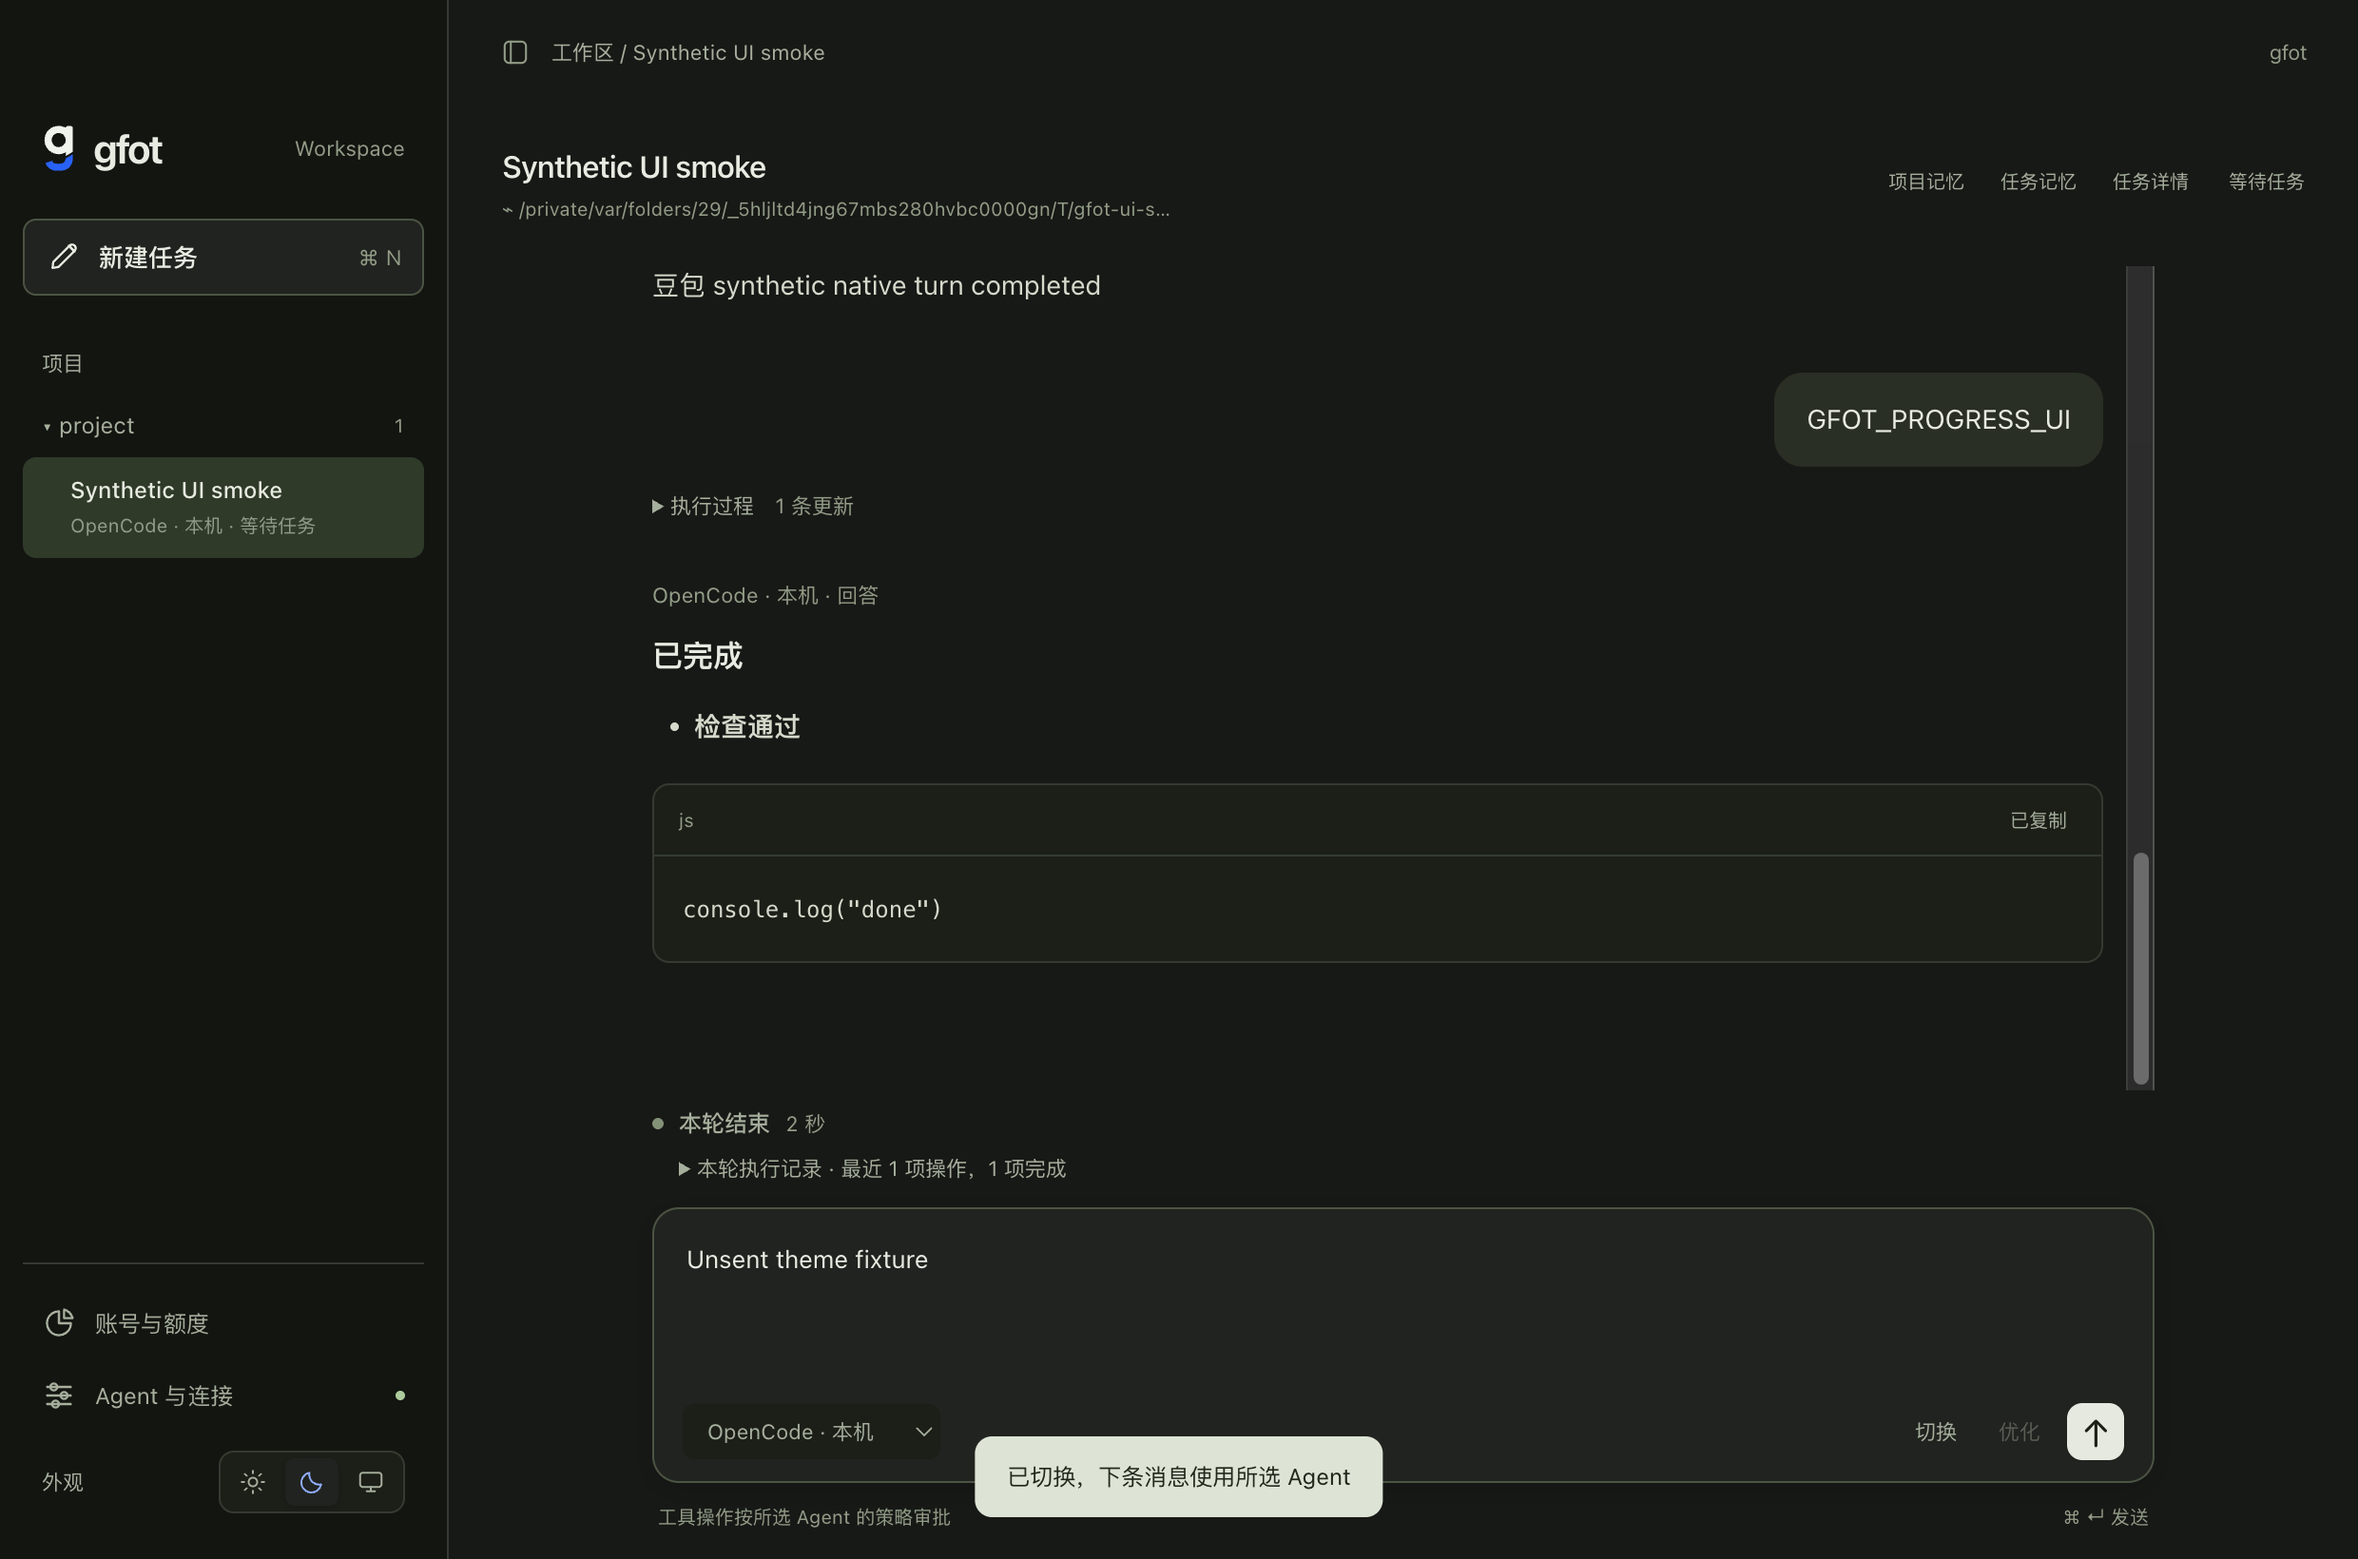
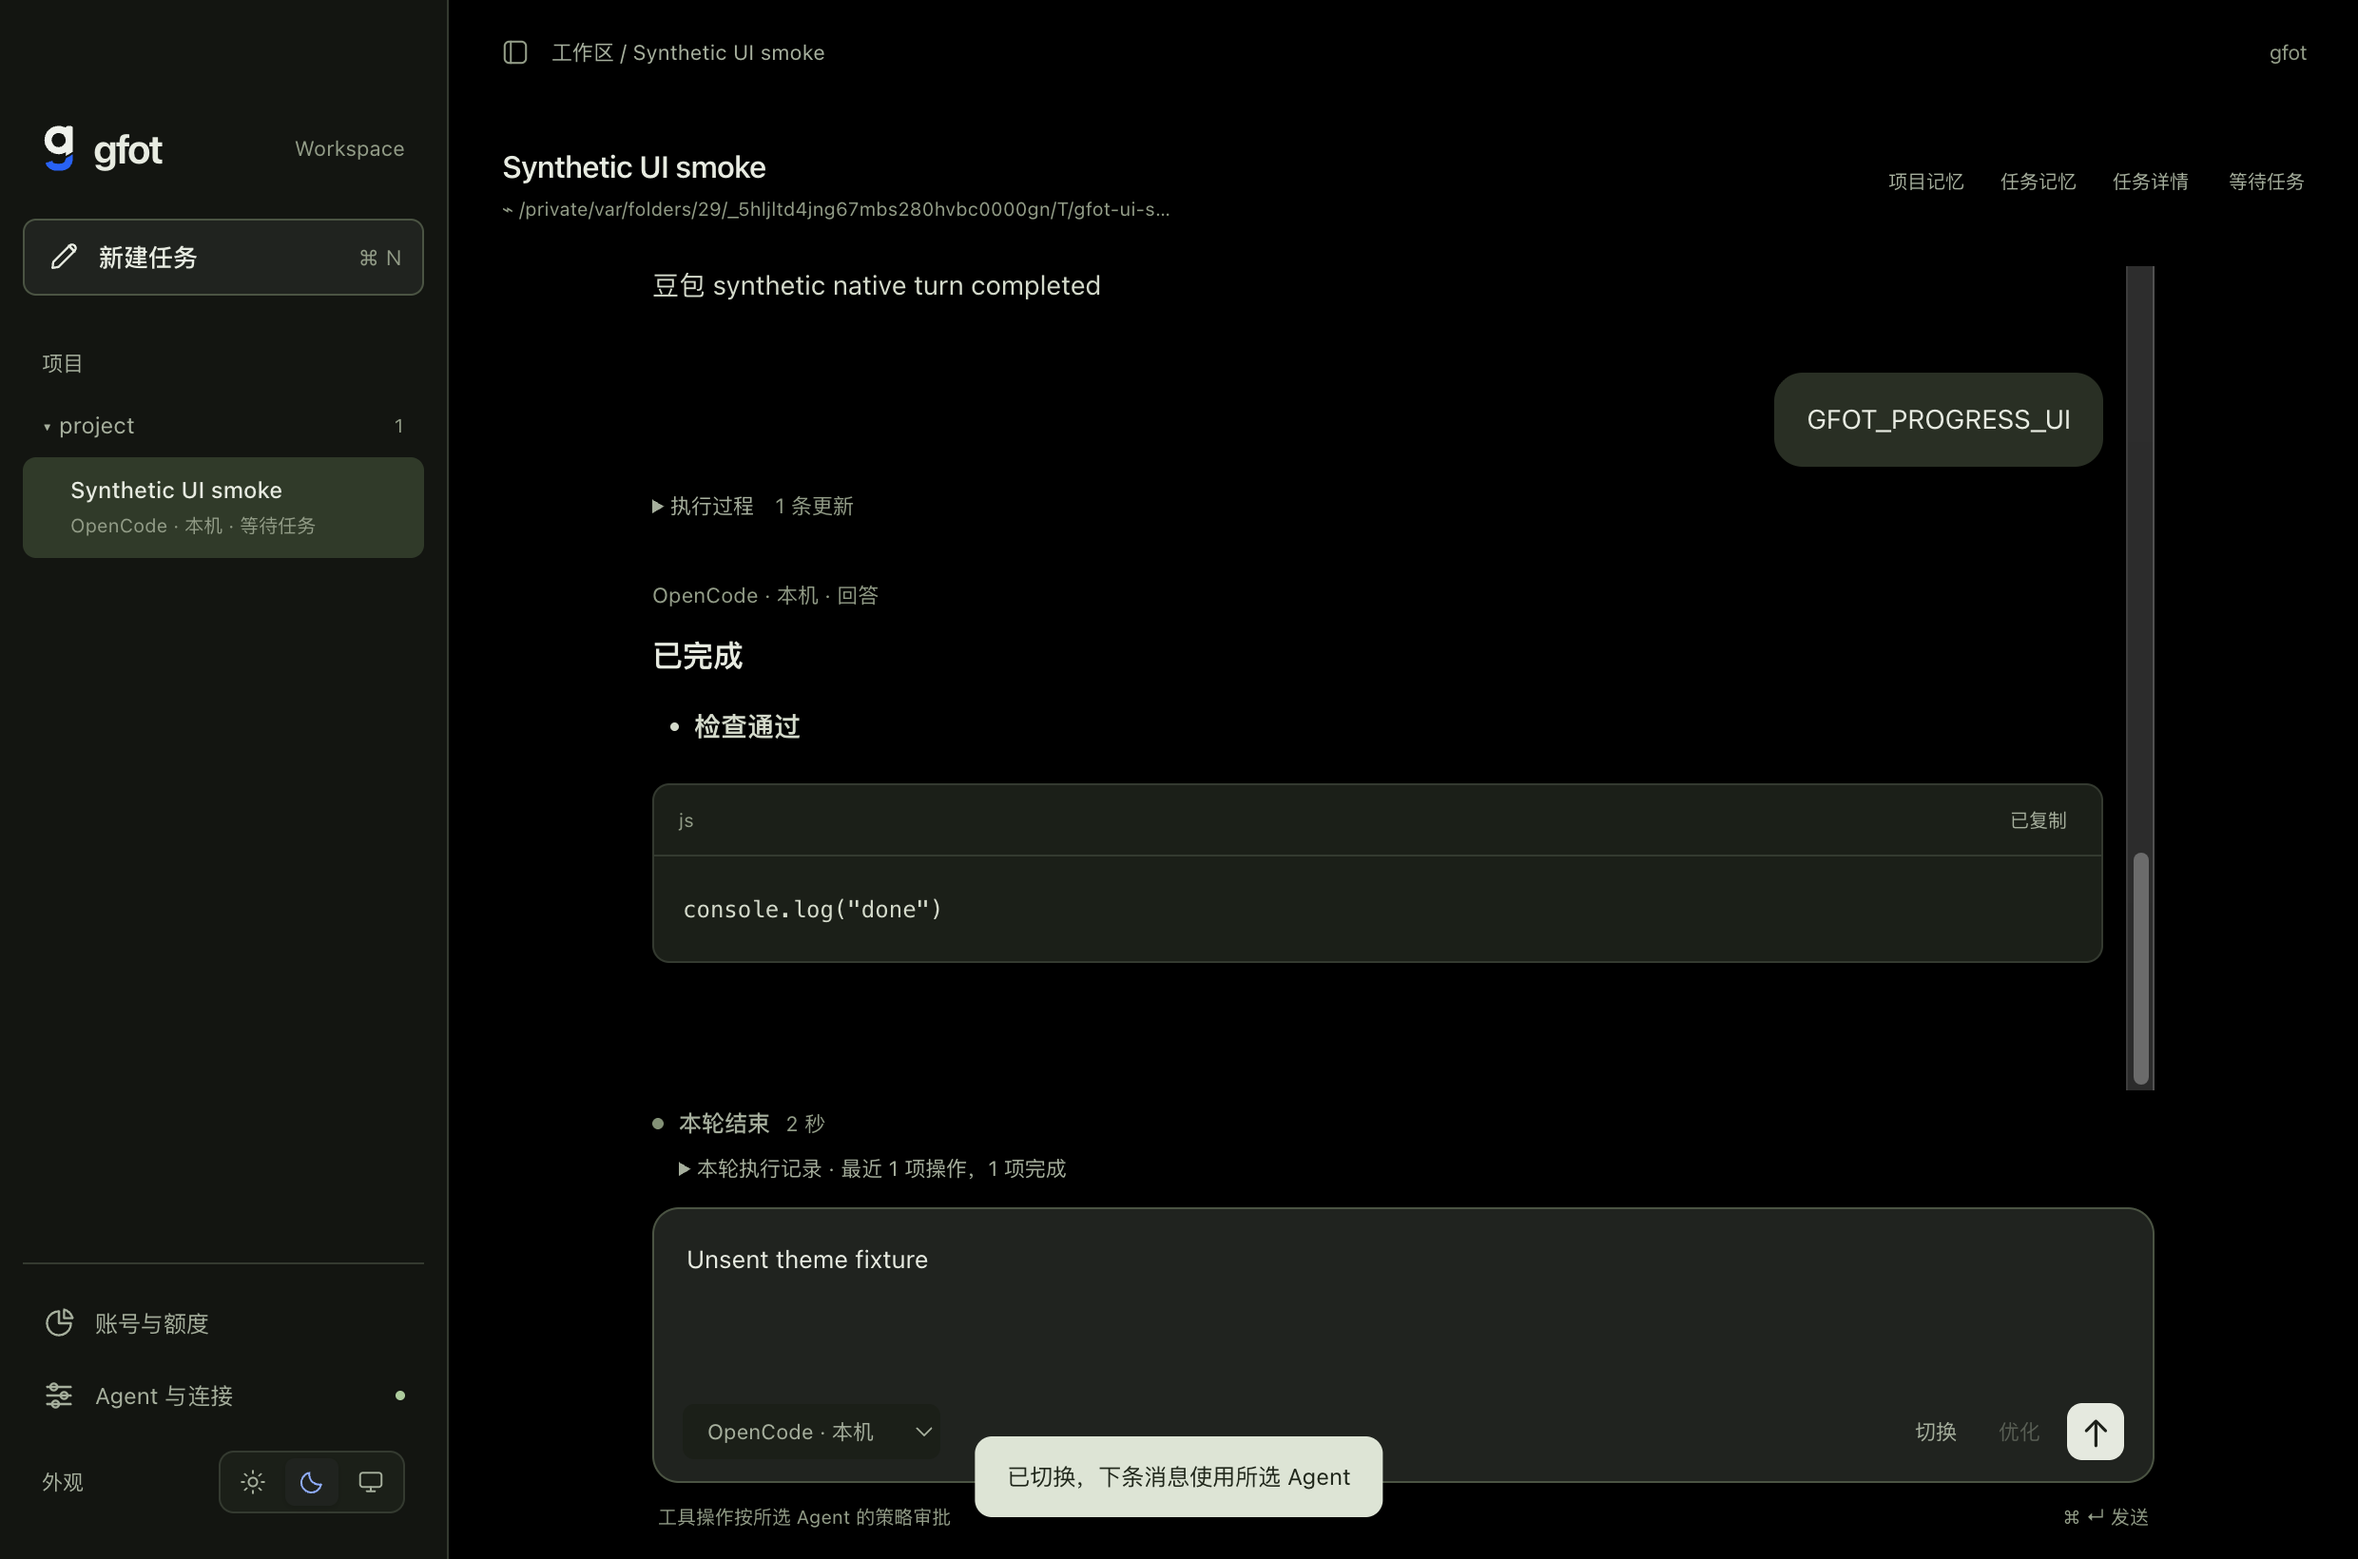
Use OLED black for the dark workspace canvas

diff --git a/desktop/ui/style.css b/desktop/ui/style.css
@@ -13,7 +13,7 @@
 }
 :root[data-theme="dark"] {
  --ink:#e7ebe1; --body-text:#d4dacb; --muted:#a6af9d; --subtle:#929c87;
- --line:#343a30; --line-strong:#4b5443; --paper:#171916; --surface:#20231f; --side:#131511;
+ --line:#343a30; --line-strong:#4b5443; --paper:#000000; --surface:#20231f; --side:#131511;
  --panel:#242921; --inset:#1b1f18; --bubble:#292f24; --hover:#2c3227; --selected:#303a29;
  --accent:#90adff; --accent-solid:#3764de; --accent-hover:#4471ee; --accent-soft:#27324d;
  --focus:#8faeff; --selection:#344c7a; --dot:#839176;

diff --git a/docs/verification.md b/docs/verification.md
@@ -98,3 +98,7 @@ Syntax checks, asset generation and source/final packaged Electron workflows pas
 gfot 0.10.0-h2.1 adds sidebar light, dark and system choices, a native atomic preference store independent of the local server port, semantic colors throughout the client and a derived dark logo variant. Changes retain task history and unsent drafts.
 
 139 automated tests passed with zero failures/skips. Syntax checks and source/final packaged Electron workflows passed, including persisted selection after reload, system changes, dark settings/usage panels and preserved task drafts/history. Independent Standards and Spec reviews reported no remaining findings. UI services were synthetic; no real provider calls were made. Builds remain unsigned/unnotarized. [Packaged report](appearance-ui-check.json) · [Review](appearance-review.md) · [Usage](appearance.md).
+
+## OLED black workspace — 2026-10-26
+
+gfot 0.10.1-h2.1 changes the dark workspace canvas and native window background to `#000000`. Elevated sidebar, input and dialog surfaces retain their previous colors. Syntax checks and source/final packaged Electron smoke passed with synthetic services. Native assertions verify both the computed page background and Electron window color; three blank-workspace screenshot samples were RGB(0,0,0). The previous 139-test full-suite result belongs to 0.10.0; this color-only patch reran the native smoke rather than the full suite. [Packaged report](oled-ui-check.json).

diff --git a/docs/appearance.md b/docs/appearance.md
@@ -9,3 +9,5 @@ Use the three buttons beside **外观** at the bottom of the sidebar:
 The desktop app saves the selection in `appearance.json` in its local application data directory. It survives reloads and restarts, including changes to the local service port. System changes apply automatically only while following the system. A failed save keeps the previous selection and shows a retry message.
 
 Theme changes preserve conversations, account selection and unsent drafts. Settings, account usage, code blocks, approvals and the logo follow the selected appearance.
+
+The dark workspace canvas uses pure black (`#000000`), including the native window background. The sidebar, input and sheets retain elevated surfaces for visual separation.
